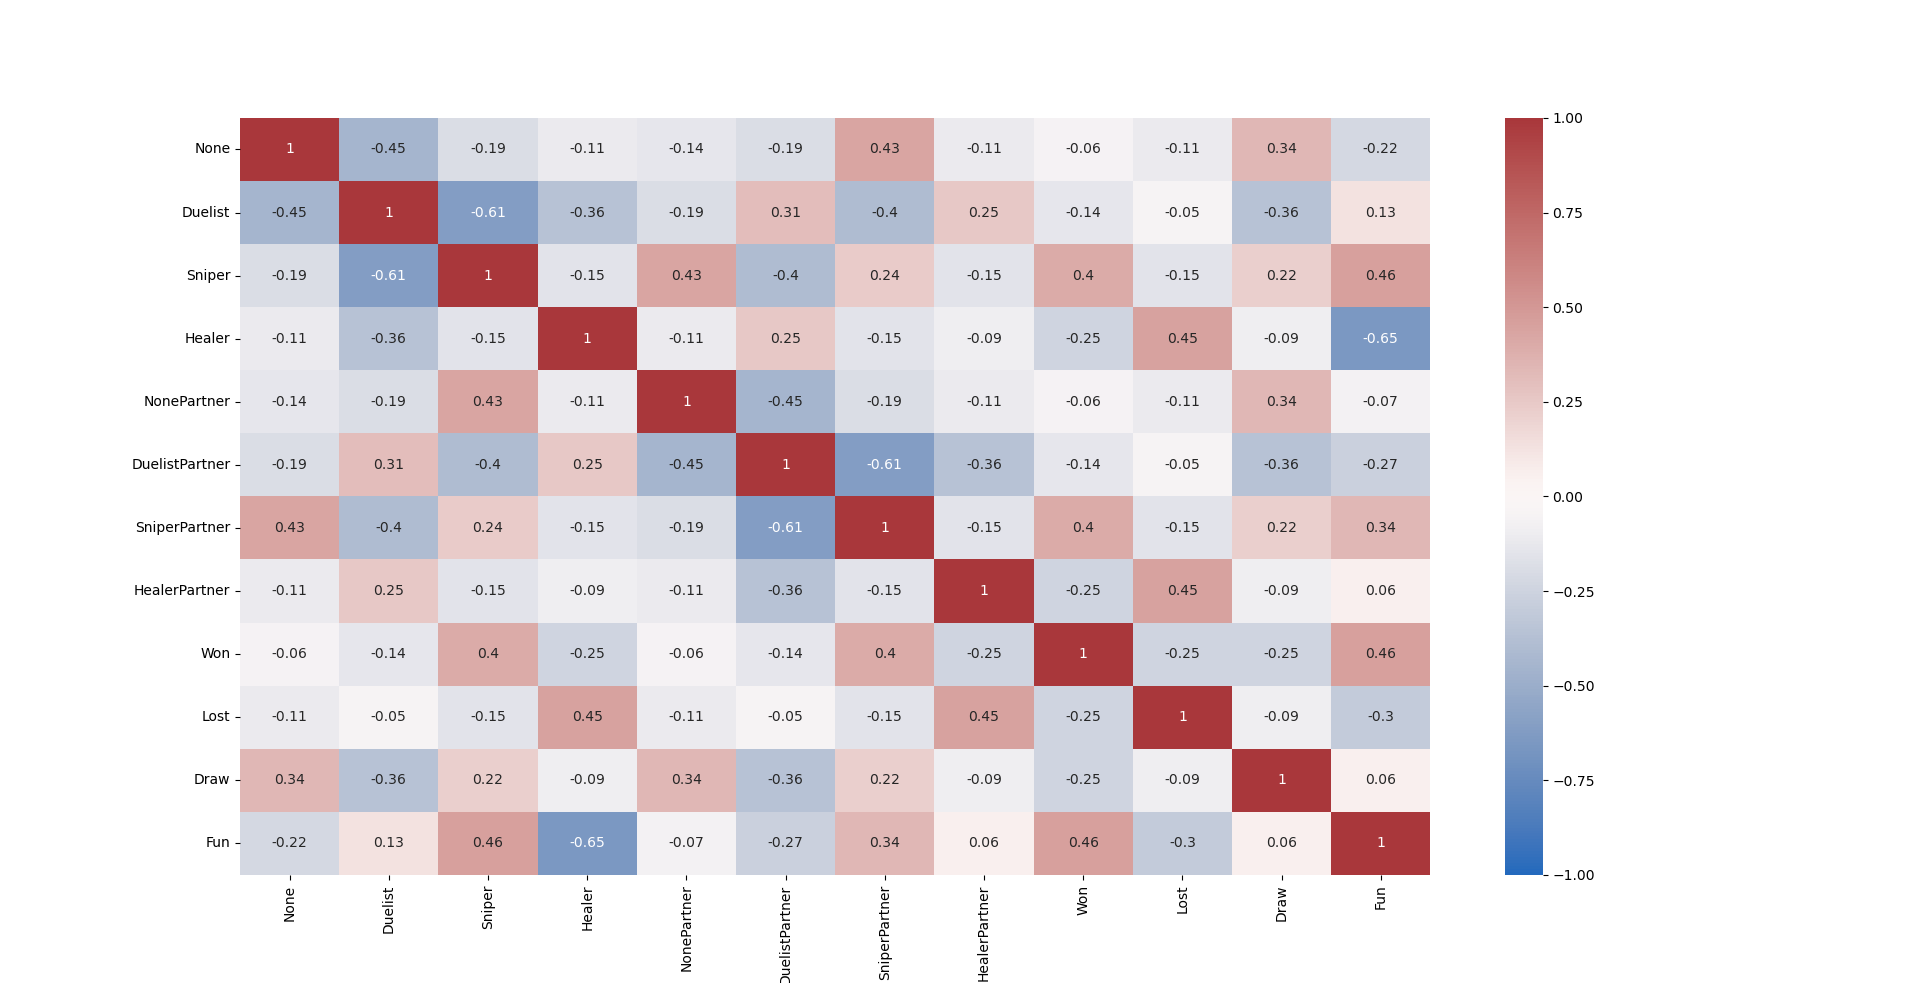
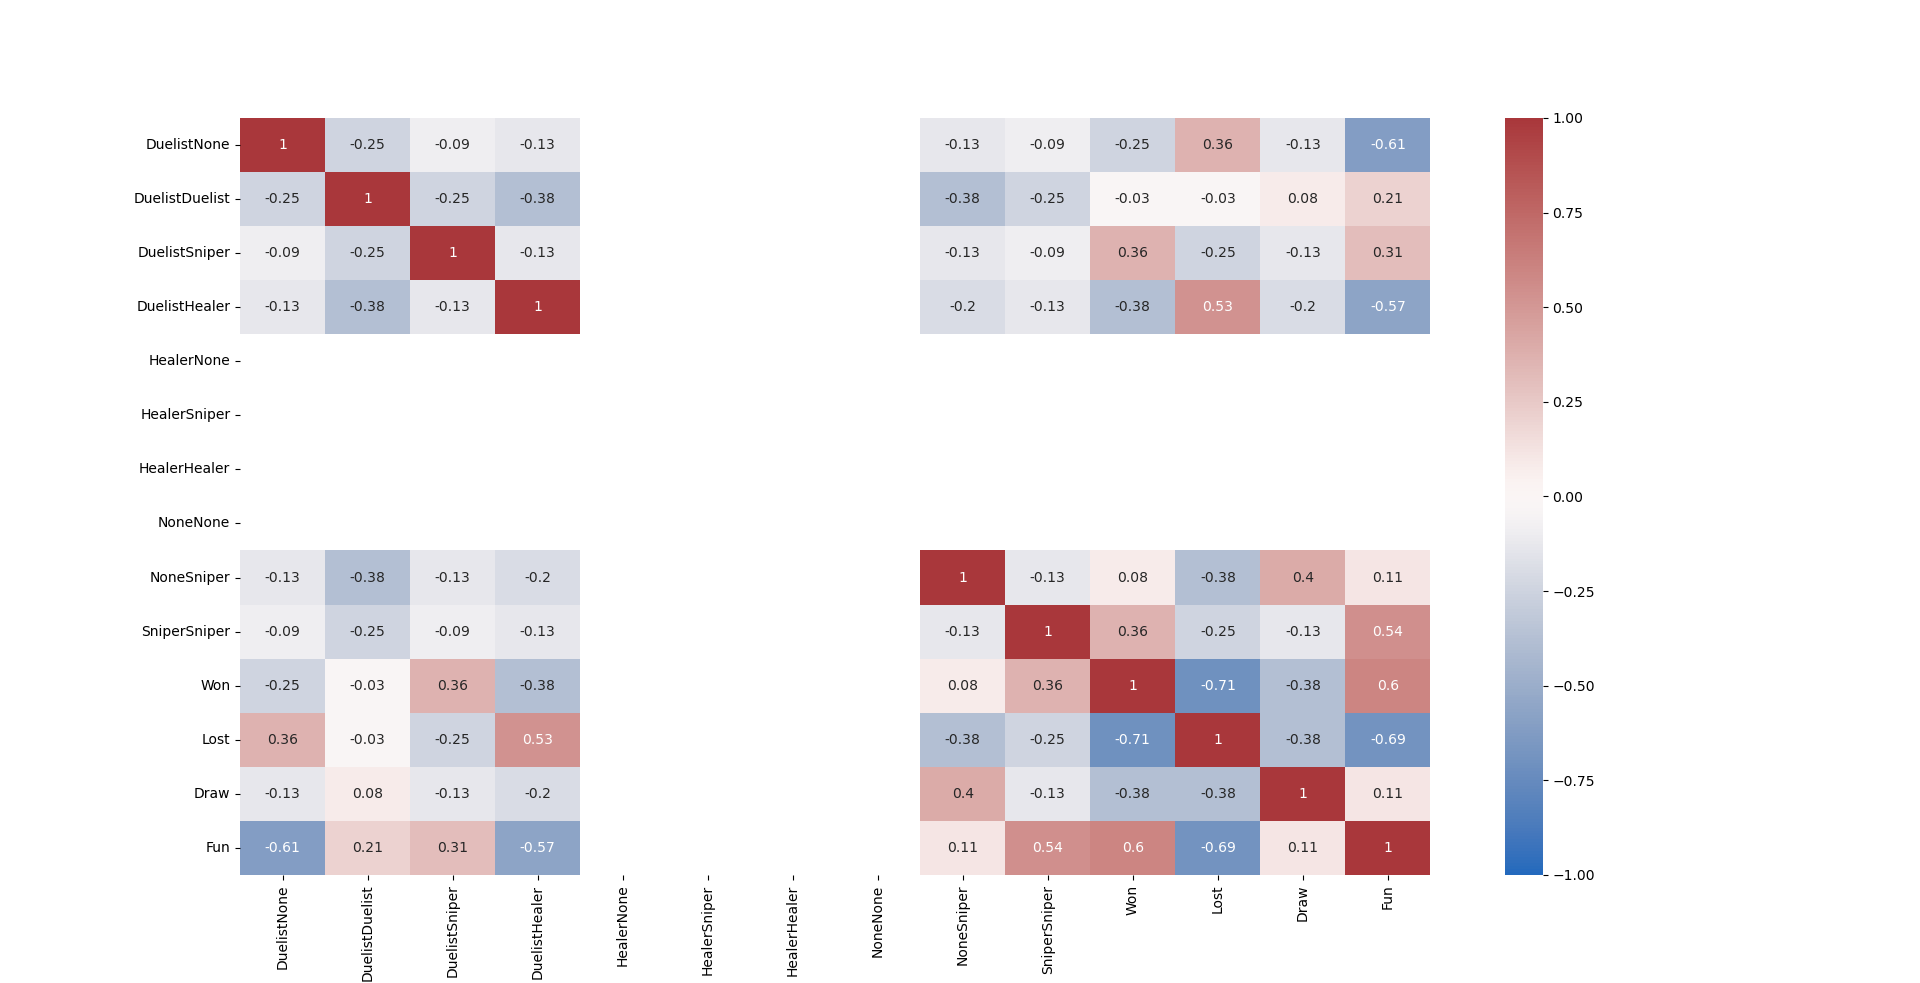
La mtariz de correlacion va por combos

diff --git a/Correlacion Python/matrixCorrelationRoles.py b/Correlacion Python/matrixCorrelationRoles.py
@@ -27,7 +27,11 @@ def CorrectString(palabra):
 # PARTE 1:==============================================================================
 def Firebase(dic, data, variableNames):
     # Guardamos el nombre de las variables
-    variableNames = ["None", "Duelist", "Sniper", "Healer", "NonePartner", "DuelistPartner", "SniperPartner", "HealerPartner", "Won","Lost", "Draw", "Fun"]
+    variableNames = ["DuelistNone", "DuelistDuelist", "DuelistSniper", "DuelistHealer", 
+                     "HealerNone", "HealerSniper", "HealerHealer",
+                     "NoneNone", "NoneSniper",
+                     "SniperSniper",
+                     "Won", "Lost", "Draw", "Fun"]
     for v in variableNames:
         dic[v] = []
     index = 0
@@ -52,41 +56,56 @@ def Firebase(dic, data, variableNames):
                 else:
                     team1 = np.concatenate((team1, [data['Matches'][p][u]['name']]))
  
-        team_mate = 0
-        for u in team0:
-            for v in variableNames:
-                dic[v] = np.concatenate((dic[v], [0]))
-            
-            role = data['Matches'][p][u]['lastRole']
-            dic[role][index] = 1
-            other = team0[(team_mate + 1) % 2]
-            partner_role = data['Matches'][p][other]['lastRole'] + 'Partner'
-            dic[partner_role][index] = 1
-            dic['Fun'][index] = data['Matches'][p][u]['gameRating'] 
-            if winner_team == data['Matches'][p][u]['t']:
-                dic['Won'][index] = 1
-            elif winner_team == -1:
-                dic['Draw'][index] = 1
-            else:
-                dic['Lost'][index] = 1
-            team_mate += 1
-            index += 1
+        # TEAM 0====================
+        # Default value
+        for v in variableNames:
+            dic[v] = np.concatenate((dic[v], [0])) # anyadimos una columna/team mas al diccionario
+        # que rol tiene cada uno en el team
+        u = team0[0]
+        role = data['Matches'][p][u]['lastRole']
+        other = team0[1]
+        partner_role = data['Matches'][p][other]['lastRole']
 
-        team_mate = 0
-        for u in team1:
-            for v in variableNames:
-                dic[v] = np.concatenate((dic[v], [0]))
+        # calculamos key en el diccionario
+        combo = role + partner_role
+        if role[0] > partner_role[0]:
+            combo = partner_role + role
+
+        dic[combo][index] = 1
+
+        dic['Fun'][index] = (data['Matches'][p][u]['gameRating'] + data['Matches'][p][other]['gameRating'] ) / 2
+        if winner_team == data['Matches'][p][u]['t']:
+            dic['Won'][index] = 1
+        elif winner_team == -1:
+            dic['Draw'][index] = 1
+        else:
+            dic['Lost'][index] = 1
+
+        index += 1 # siguiente team
             
-            role = data['Matches'][p][u]['lastRole']
-            dic[role][index] = 1
-            other = team1[(team_mate + 1) % 2]
-            partner_role = data['Matches'][p][other]['lastRole'] + 'Partner'
-            dic[partner_role][index] = 1
-            dic['Fun'][index] = data['Matches'][p][u]['gameRating'] 
-            if winner_team == data['Matches'][p][u]['t']:
-                dic['Won'][index] = 1
-            team_mate += 1
-            index += 1
+        # TEAM 1======================================
+        for v in variableNames:
+            dic[v] = np.concatenate((dic[v], [0]))# anyadimos una columna/team mas al diccionario
+        u = team1[0]
+        role = data['Matches'][p][u]['lastRole']
+        other = team1[1]
+        partner_role = data['Matches'][p][other]['lastRole']
+
+        combo = role + partner_role
+        if role[0] > partner_role[0]:
+            combo = partner_role + role
+
+        dic[combo][index] = 1
+
+        dic['Fun'][index] = (data['Matches'][p][u]['gameRating'] + data['Matches'][p][other]['gameRating'] ) / 2
+        if winner_team == data['Matches'][p][u]['t']:
+            dic['Won'][index] = 1
+        elif winner_team == -1:
+            dic['Draw'][index] = 1
+        else:
+            dic['Lost'][index] = 1
+
+        index += 1 # siguiente team
 
     return dic, variableNames
 
